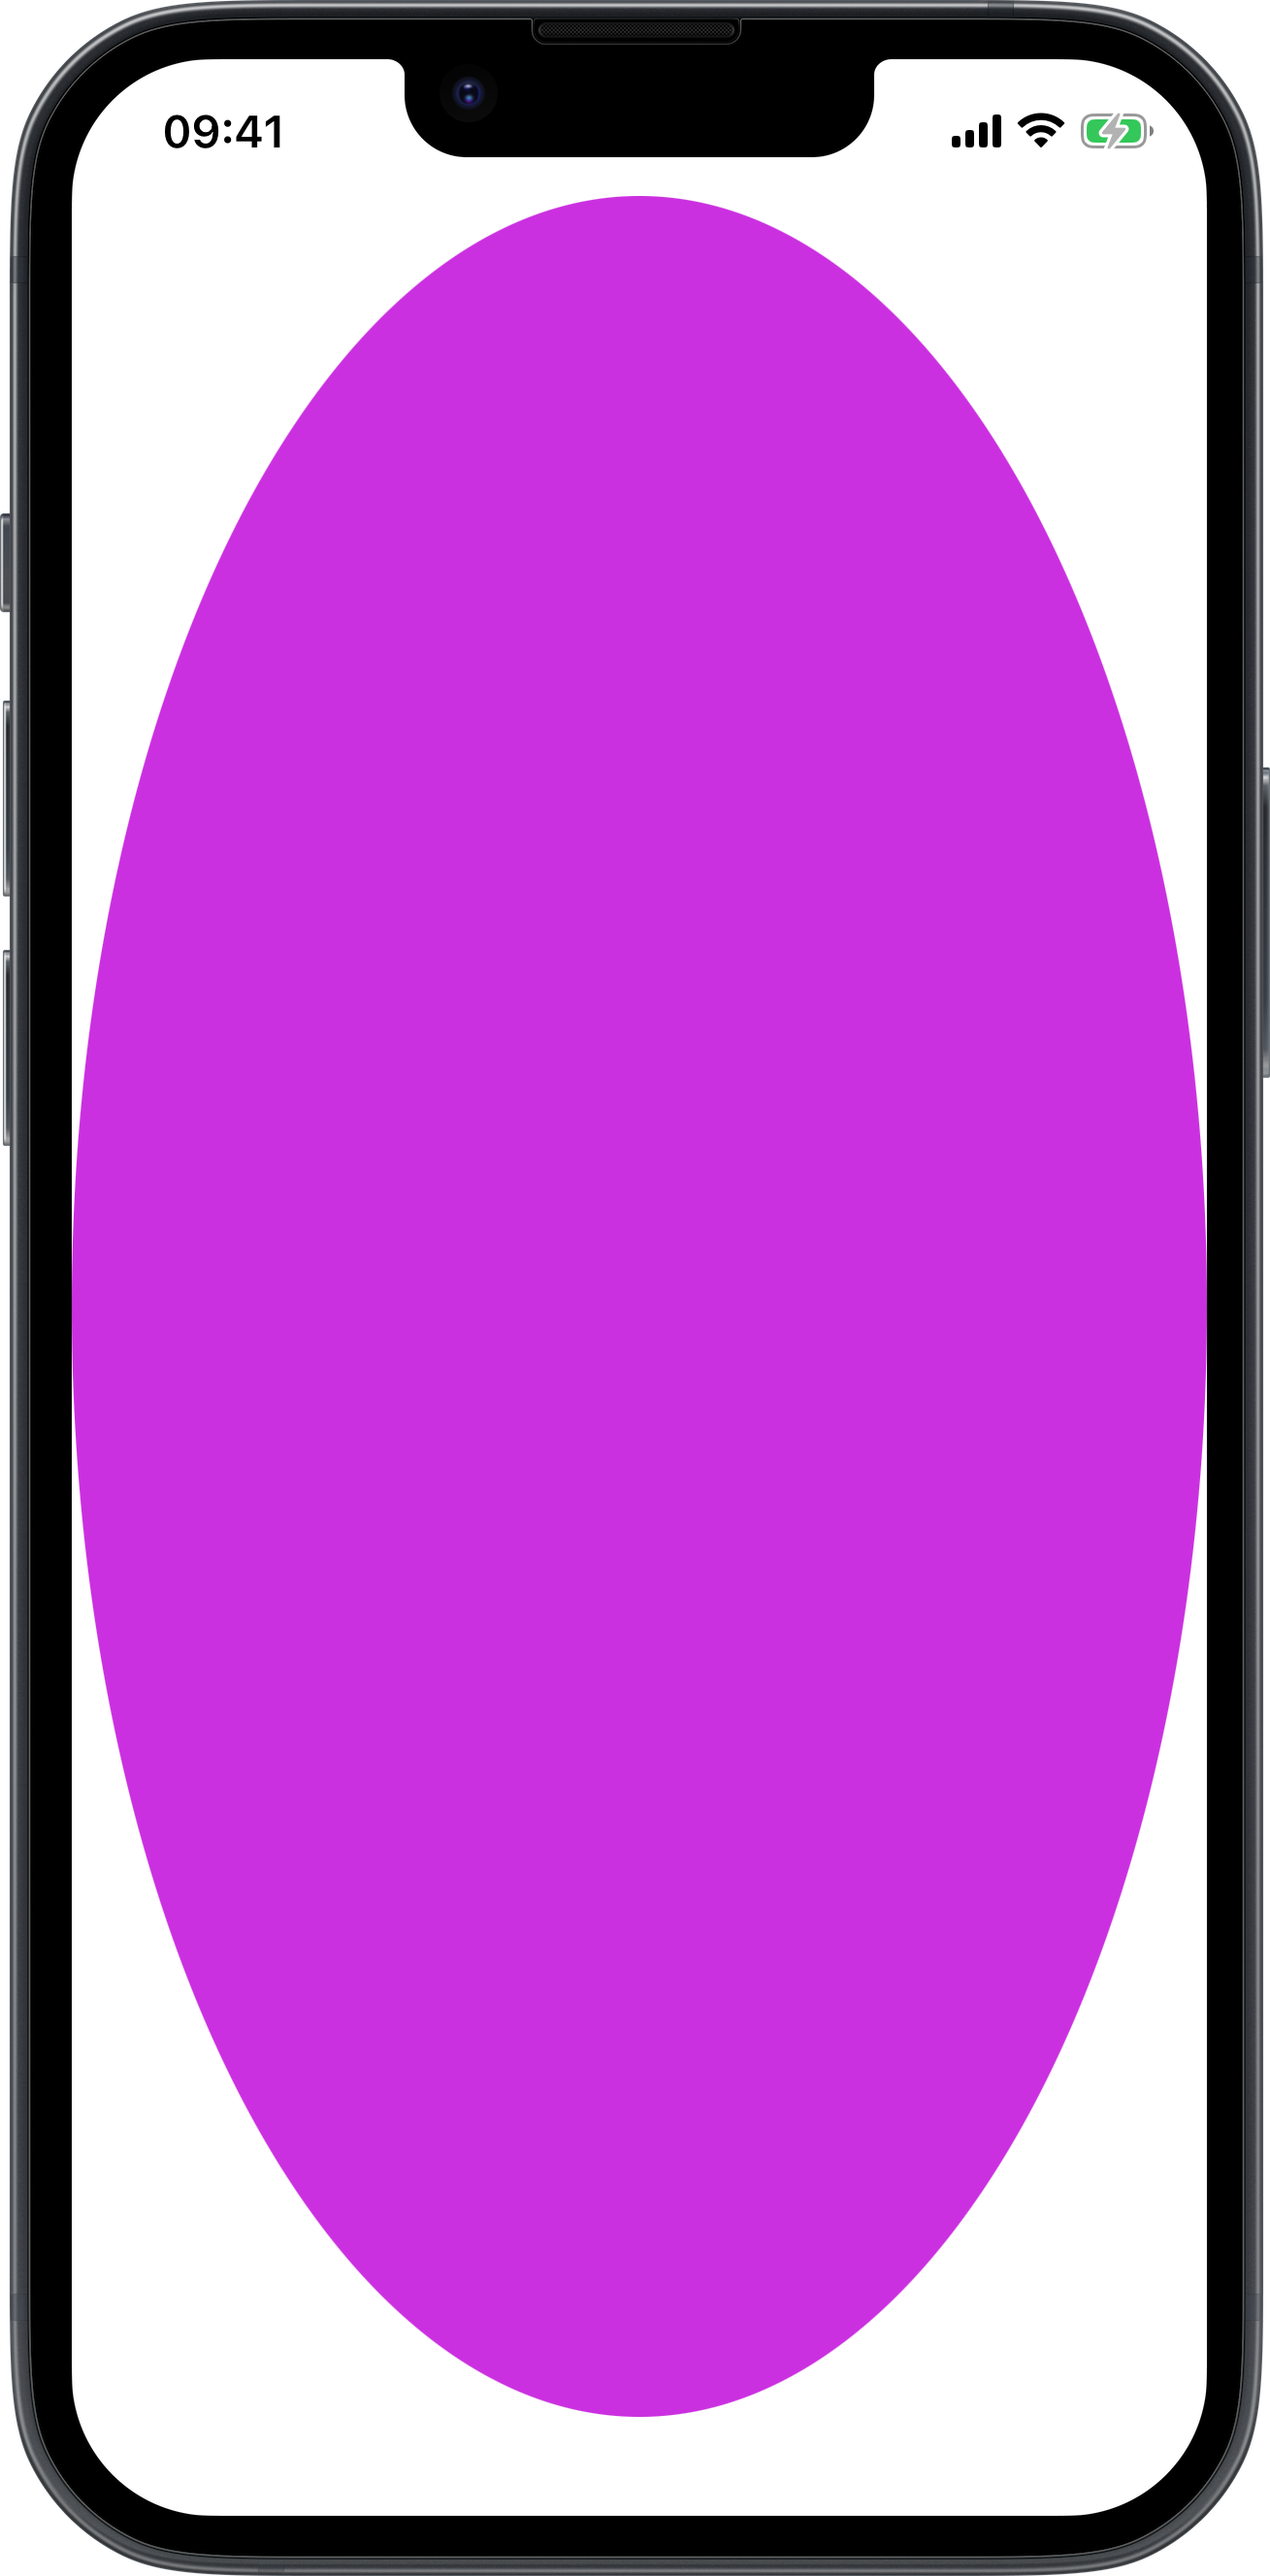
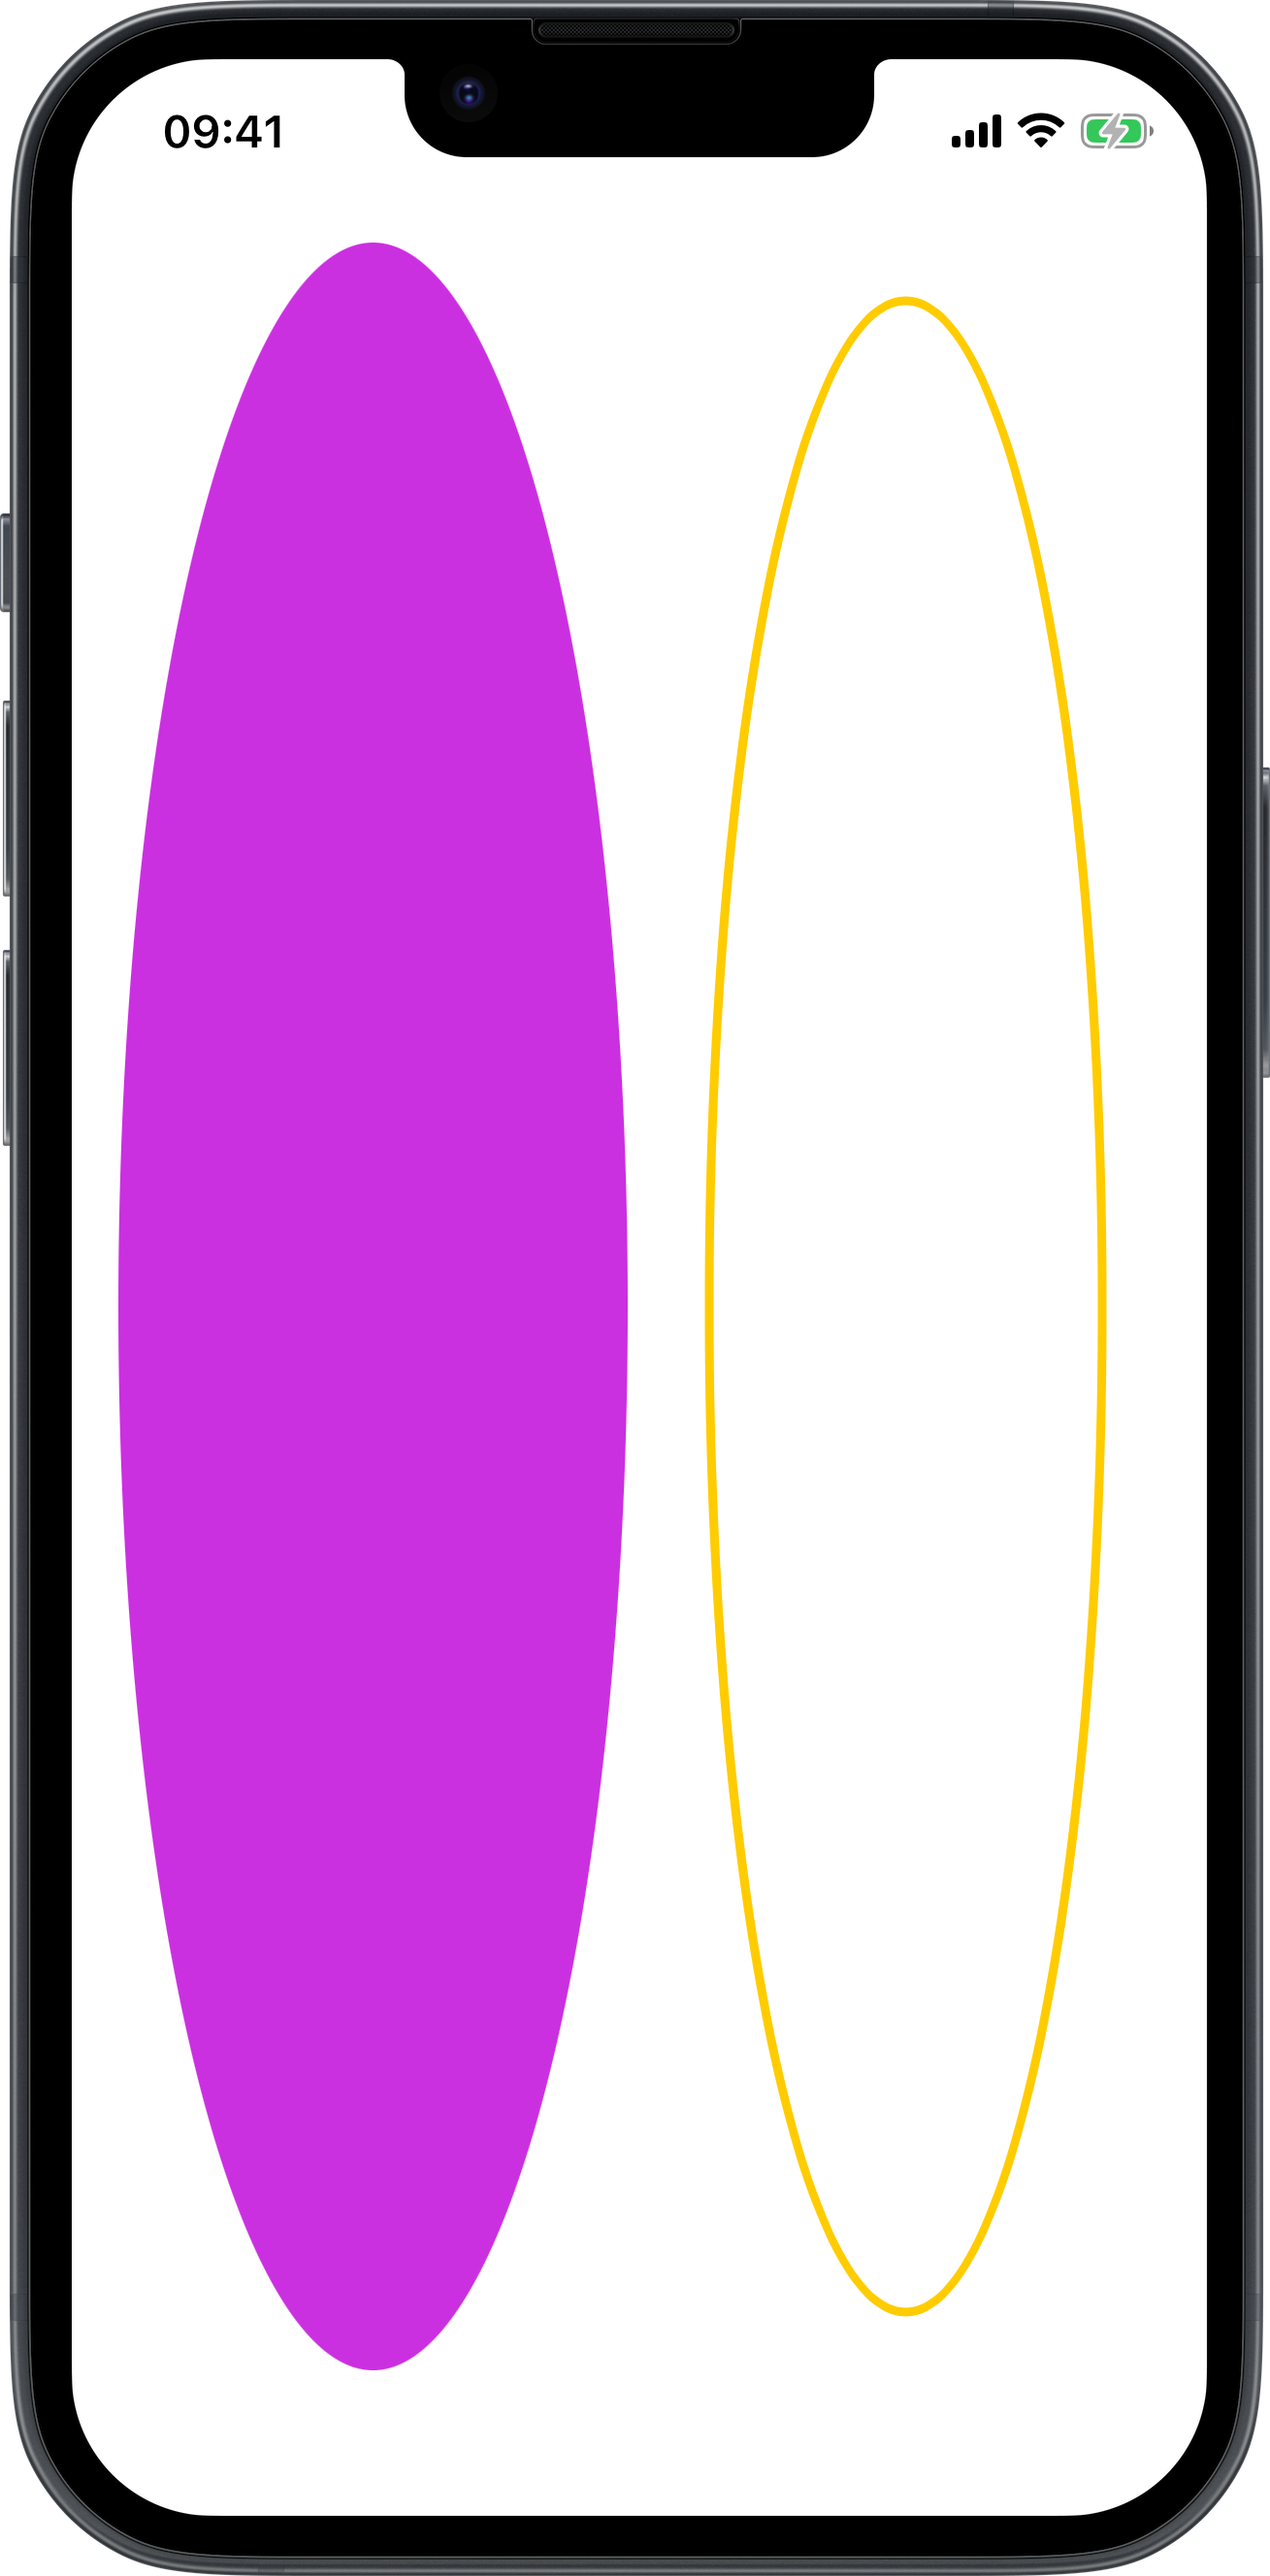
upd

diff --git a/Views/Other/rectangle.md b/Views/Other/rectangle.md
@@ -12,8 +12,11 @@ A rectangle shape aligned inside the frame of the view containing it.
 
 ```xml
 <body>
-    <rectangle foregroundColor="cyan"/>
-    <rectangle stroke="lineWidth:5;dash:10" foregroundColor="mint" padding="20"/>
+    <vstack padding="">
+        <rectangle foregroundColor="cyan"/>
+        <rectangle stroke="lineWidth:5;dash:5" foregroundColor="mint" clipped=""/>
+        <rectangle foregroundStyle="style:lineargradient;colors:[red,blue];startPoint:0.0,0.5;endPoint:1.0,0.5"/>
+    </vstack>
 </body>
 ```
 <img src="/Screenshots/Views/Other/rectangle_1.png" width="250" alt="Screenshot">

diff --git a/Views/Other/ellipse.md b/Views/Other/ellipse.md
@@ -12,8 +12,10 @@ An ellipse shape aligned inside the frame of the view containing it.
 
 ```xml
 <body>
-    <ellipse foregroundColor="purple"/>
-    <ellipse stroke="lineWidth:3" foregroundColor="yellow" padding="20"/>
+    <hstack padding="">
+        <ellipse foregroundColor="purple"/>
+        <ellipse stroke="lineWidth:3" foregroundColor="yellow" padding="20"/>
+    </hstack>
 </body>
 ```
 <img src="/Screenshots/Views/Other/ellipse_1.png" width="250" alt="Screenshot">
